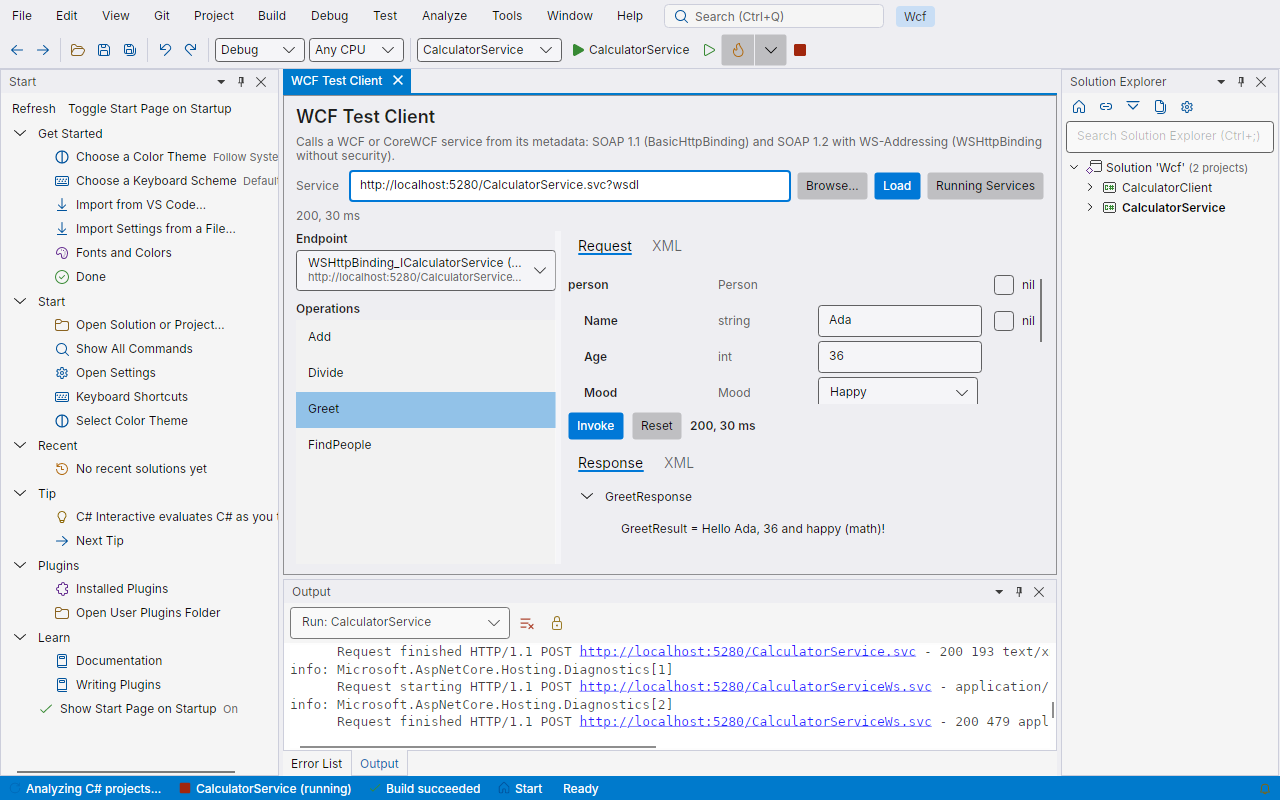
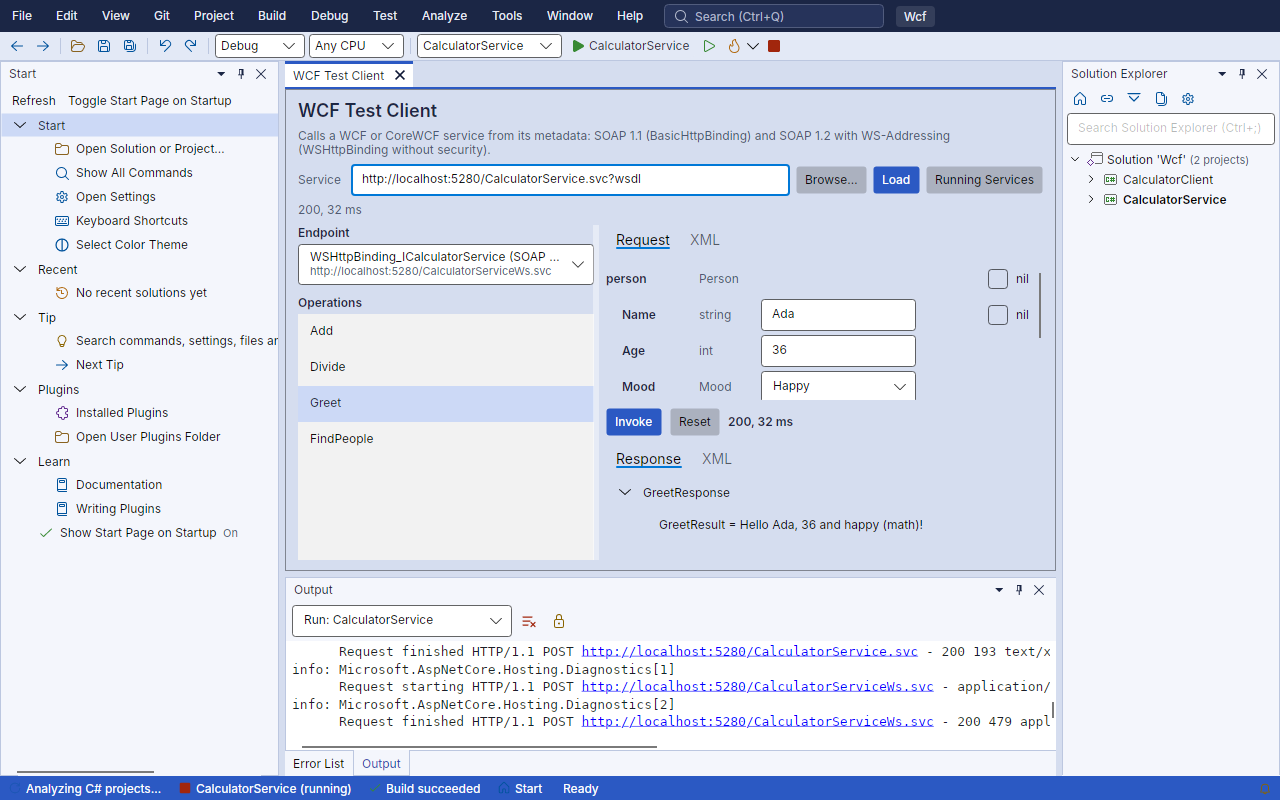
M34g checkpoint: findings, roadmap, UI guide, changelog and the WCF screenshot
The checkpoint's findings table (27 issues in the views M40-M47 added, each fixed
in the view), the tests and the gallery's new pictures, and the results on Linux.
The UI guide gains the text tokens for errors and warnings, the selection rules,
the minimum input width, the Tab walk and the gallery's new surfaces. The
website's WCF Test Client screenshot is the smoke test's again, with the form's
new layout.

diff --git a/docs/checkpoints/m34g.md b/docs/checkpoints/m34g.md
@@ -1,0 +1,89 @@
+# M34g checkpoint: the polish pass over the Windows desktop UI
+
+Date: 2026-10-17. M34's pass over the UI added since M34f: M40–M44 (the Windows desktop phase, D31) and, as the roadmap's status says, M45's theme families, M46's first-run setup and M47's Code Search. It applies M34d–f's checklist ([`docs/ui-guidelines.md`](../ui-guidelines.md)) to every view they added, in all sixteen themes, and puts the views in the gallery. No new ADR: the choices follow ADR 0019 (look and feel) and [ADR 0077](../adr/0077-theme-families.md) (the families' tokens).
+
+## What was walked
+
+| Milestone | Views |
+|---|---|
+| M40 | The XAML Previewer's WPF states (Windows only, the loader's error), the Live Visual Tree and the Live Property Explorer |
+| M41 | The Windows Forms designer document, the Toolbox, the Properties window over the designer's selection (properties and events) |
+| M42 | The WCF Test Client, the Service References document's WCF page |
+| M43 | Nothing: M43 is scheduled after M44 and hasn't been built; its views get the checklist in its own definition of done |
+| M44 | No view of its own: "Windows Machine" in the device picker (a quick pick) and Check Environment's Developer Mode and Windows App SDK rows are existing surfaces (M34f walked Check Environment) |
+| M45 | Options' color theme cards and mode, the theme picture |
+| M46 | The setup window's four steps (with a missing SDK's plan shown) |
+| M47 | Code Search floating and docked: empty, nothing found, incomplete, results with the preview, Feature Search |
+
+Each in its states (empty, loading, error, disabled where a view has it, with data), at its minimum size (280 px for tool windows, 640 px for documents, 420 px for Code Search's floating window, the setup window's 760 × 560), in Classic's four themes and the families' twelve. The Windows-only views are checked through their view models and views with fakes, as M34f did: the designer document, the Toolbox and the Properties window through `FakeWinFormsDesignerHost` (M41a's) over the real build and C# hosts.
+
+## Findings
+
+| View | Issue | Fix |
+|---|---|---|
+| Every view with error or warning text (36 views, the WCF Test Client and the Live Property Explorer among them) | Messages drew in `Shell.Error` and `Shell.Warning`, graphics tokens held to 3:1: error text was 4.29:1 in Classic Dark, 4.35:1 in Classic Light and Blue, 4.39:1 in Harbor Light and 4.43:1 in Graphite Light | `Shell.Error.Foreground` and `Shell.Warning.Foreground` in all sixteen themes (the palette's dark red and amber on light themes, its light red on dark ones, the High contrast colors there), with contrast pairs at 4.5:1 (7:1 in the families' High contrast); the views use them, and VS Code themes' `errorForeground` sets it too |
+| Watch, Locals, QuickWatch, data tips, HTTP responses, the WCF Test Client's fault | `Classes.error` on text did nothing: no style had it | `TextBlock.error` and `TextBlock.warning` in `ShellStyles.axaml` |
+| Code Search (M47), and every list | A selected row's secondary text stayed muted on the selection: 3.10:1 in Classic Dark, 3.37:1 in Classic Light, 3.95:1 in Blue, 4.37:1 in Harbor Dark, 1.03–1.24:1 on the High contrast families' accent | A selected list row's `TextBlock.muted` takes `Shell.Selection.Foreground` |
+| Live Visual Tree (M40b), Options' categories, every tree | A selected tree row's header kept the window's white on a High contrast family's accent (1.41–1.81:1) | A selected tree row's header takes `TreeViewItemForegroundSelected`; the Live Visual Tree's muted template parts take it when selected |
+| Properties window (M41a), every checked toggle button | A checked toggle drew white on Fluent's `#0078D7`: 4.50:1, below the families' High contrast 7:1 (and only just AA in Classic) | `ToggleButtonBackgroundChecked` and `ToggleButtonForegroundChecked` per theme: each family's accent with its text, Classic's accent with `Shell.AccentForeground`; a contrast pair checks them |
+| Properties window (M41a) | Categorized, Alphabetical, Properties and Events in a row ran off the tool window's 280 px; the separator was a one-off border | A `ToolbarPanel` (the overflow menu takes what doesn't fit), `Border.toolbarSeparator` |
+| Properties window (M41a) | The title ("button1 System.Windows.Forms.Button") trimmed without a tooltip, and rows without a description had none on their trimmed names | Tooltips: the title, and the name with its description |
+| Windows Forms designer (M41a) | The grab handles were white and the rubber band DodgerBlue in every theme | The handles filled with `Shell.Panel` and outlined in the accent, the band the accent at 12 % |
+| Windows Forms designer (M41a) | Before the first frame and when the designer couldn't start, the reason was one trimmed line in the toolbar, without a tooltip | The status where the form will be, wrapped (`TextBlock.emptyState`, a live region); the toolbar's status has a tooltip |
+| Windows Forms designer (M41a) | The list of statements the designer couldn't run was cut at 120 px | It scrolls, in the error color, with a name |
+| Windows Forms designer (M41a) | View Code's icon (`code`) had no palette color: `IconColorTests` sees only the XAML's kinds | Blue in `CommandIcons.s_kindColors`; `PolishTests` now checks the icons the views show |
+| Toolbox (M41a) | A search that matched nothing left the Toolbox blank | "No Toolbox items match '…'. Clear the search box to see them all." |
+| Live Property Explorer (M40b) | Fixed 180 and 110 px columns left the value nothing at 280 px; Source didn't trim; a name's tooltip had only its type | Proportional columns (`2*,3*,1.4*`), headers and Source trim with tooltips, the name's tooltip is "Name: Type" |
+| Live Visual Tree, Live Property Explorer, XAML Previewer (M40b) | Their messages (no app, no window, a WPF app off Windows, nothing previewed, select an element) weren't in the catalogue | Localized (`msg.liveTree.*`, `msg.xamlPreview.nothing`) |
+| XAML Previewer | The error box's corner was a literal 2 px | `Shell.CornerRadius` |
+| WCF Test Client (M42) | The form's fixed columns (`150,100,*,Auto,56`) beside a fixed 260 px list left the value boxes 38 px and the choices 32 px at 640 px; rows didn't line up | The list and the form share the width (`2*`, at least 160 px, and `3*`, at least 280 px); the form's columns are proportional and its rows share the fixed ones; room for the scroll bar |
+| WCF Test Client (M42) | A fault's summary was cut off at 640 px (242 px in 234) | It trims, with a tooltip and a live region, in the error color |
+| WCF Test Client (M42) | The endpoint drop-down's name and address trimmed without tooltips | A tooltip with both |
+| WCF Test Client (M42) | Before an operation, the request area was blank | "Load a service's metadata above…, then choose an operation: its request form shows here." |
+| WCF Test Client (M42) | Its status, errors, title and file picker were English only | Localized (`msg.wcf.*`) |
+| Service References, WCF page (M42) | dotnet-svcutil's message pushed Install off a 640 px page (0 px of it showed) | The message wraps beside Install |
+| Service References, WCF page (M42) | The add form's fields and the WCF options' fields didn't line up (two grids, two label widths) | The forms' label columns are one shared size |
+| Service References, WCF page (M42) | svcutil's state, the WCF errors and a reference's details were English only | Localized (`msg.serviceReferences.*`) |
+| Options' color theme cards (M45) | The cards' lines and the modes were English only (the setup's, for the same families, were translated) | Localized (`msg.colorTheme.*`); the setting's own names (`VariantTitle`, used by color customizations) stay English |
+| Options' color theme cards (M45) | A card's line was only a tooltip for screen readers | `AutomationProperties.HelpText`, as the setup's cards |
+| Setup window (M46) | Literal font sizes (12 and 14 px) | `Shell.FontSize.Body` and `.Heading`; the page title's 22 px is the design's ([Setup.dc.html](../design/shell-themes/Setup.dc.html)) and stays |
+| Code Search (M47) | With nothing to list, only the small status line said so, and "No results" gave no next step | The message where the results would be (`TextBlock.emptyState`), and "Try fewer characters, all kinds (Alt+A), or a wider scope." |
+
+Walked and found right: the setup window's four steps at 760 × 560 in every theme (names, keys, contrast); Code Search's chips, tabs, preview and docked view at 280 px; the theme picture (drawn from its variant's tokens, decorative inside a named card); every icon kind the new views show, once `code` had its color.
+
+## Tests
+
+- **`PolishWindowsDesktopTests`** (part of `PolishTests`, 3 tests, headless):
+  - **The new views in every state:** the XAML Previewer (empty, WPF off Windows, an error), the Live Visual Tree (empty, data, a template part selected), the Live Property Explorer (empty, data with an error), the Toolbox (no designer, data, an item armed, no matches), the WCF Test Client (empty, a missing address, loading against a gated mock, a WSDL's form, a response, a fault), the setup window's four steps, Options' color theme cards, and Code Search floating (empty, nothing found, Feature Search).
+  - **With a solution** (samples/LanguageFeatures, the real build and C# hosts): Code Search incomplete while it loads, with results and the preview, docked at 280 px; the Service References document's WCF page and its error.
+  - **The Windows Forms designer** (samples/WindowsDesktop's WinFormsApp, the fake designer host on any OS): the designer document with a selection, the Toolbox and the Properties window (properties and events) with the designer's data, and a designer that can't start, whose reason shows where the form would be.
+  - Each surface is hosted at its minimum size in all sixteen themes and walked with M34d–f's checks (cut-off text, accessible names) and three new ones: **contrast as rendered** (every text against the background under it, blended, 4.5:1, 3:1 large, 7:1 in the families' High contrast), **icons in the palette** (a kind a view shows without a color of its own), and **squeezed inputs** (a text box or combo box under 48 px). The squeezed check was proven against the WCF form's old columns (a 32 px combo box).
+- **`UxPassTests.The_new_views_reach_every_control_with_Tab_in_reading_order`**: Tab pressed through the WCF Test Client's form, the Toolbox, the Live Property Explorer, the setup's settings step and Code Search's Feature Search; every visible, enabled control is reached.
+- **Contrast pairs** (`TestData/contrast-pairs.txt`, 111 → 123): the error and warning text on the panel, the window, popups and the editor; `Shell.Foreground` on `Shell.Editor.Background` (the setup's cards and sections); the accent's outlines on popups and the editor; checked toggle buttons.
+
+## The gallery
+
+- **`shell.galleryEmpty`** adds Code Search (`code-search-empty`, `-no-results`, `-feature-search`), the WCF Test Client (`wcf-test-client-empty`, `-error`, and `-form` from samples/Wcf's WSDL file) and the setup's steps (`setup-appearance`, `-keyboard`, `-settings`, `-tools`).
+- **`shell.gallery`** adds Code Search's results with the preview (`code-search-data`), Options' color theme cards (`options-color-theme-data`) and the WCF page of Service References (`service-references-wcf-data`).
+- **`wcf.testClient`** adds the test client with the running service's response and a fault (`wcf-test-client-data`, `-fault`).
+- **On Windows**, `winforms.designer` adds the designer, the Toolbox and the Properties window with their data (`winforms-designer-data`, `toolbox-data`, `properties-data`), and `wpf.preview` the XAML Previewer's WPF frame (`xaml-preview-wpf`).
+- The tool windows among the new views (the Toolbox, the Live Visual Tree and Property Explorer, the XAML Previewer, Code Search docked) were already in the sweep of every registered tool window.
+
+## Results
+
+**Linux** (this container, Ubuntu 24.04, the .NET 11 RC2 SDK; Windows and macOS are CI's):
+- `dotnet build Codalus.slnx`: 0 warnings, 0 errors.
+- `Codalus.Shell.Tests`, the whole project under Xvfb: 392 tests, 380 passed, 12 skipped (Windows, browser, WSL and container tests without their prerequisites), none failed. Among them `PolishTests` 17/17 (the three new ones; the contrast pairs in sixteen themes; the tool window walks), `UxPassTests` with the Tab walk, `ThemeFamilyTests`, `IconColorTests`, `FirstRunSetupTests`, `CodeSearchTests`, `WcfShellTests`, `WinFormsDesignerShellTests` and `LocalizationCatalogTests`.
+- `LocalizationCatalogTests` with `CODALUS_UPDATE_LOCALIZATION=1`: 40 new strings in `en.json` (the view models' messages and one view string); `localization-literals.txt` unchanged.
+- The smoke test, the Debug build under Xvfb: `CODALUS_SMOKE_ONLY=shell.window,shell.galleryEmpty,projects.open,testing.discover,testing.run,shell.gallery` passed (`shell.galleryEmpty` in 49 s, `shell.gallery` in 93 s, 589 pictures), and `shell.window,shell.galleryEmpty,wcf.testClient` passed (the response and the fault in the gallery). The pictures were reviewed; the WCF form's misaligned rows and the WCF page's two label widths were found there and fixed. `smoke-test-wcf-test-client.png` is the website's `wcf-test-client.png` again (the form's new layout).
+- `tests/Codalus.Website.Tests` 12/12; the site's export: 58 files, no broken links.
+- The Windows-only gallery pictures (`winforms.designer`, `wpf.preview`) and the full smoke test weren't run here; Native AOT wasn't published (no change to what it compiles beyond views and view models).
+
+**Needs validating on Windows and macOS** (CI, or the Mac session): the Windows smoke run's new gallery pictures (the designer, the Toolbox, the Properties window, the WPF preview), the new tests with each platform's fonts, and the gallery's review on three OSes (D25).
+
+## Open
+
+- **The maintainer's part (D25):** the gallery on three OSes and the display scales from 100 % to 200 % stay M34's exit criteria. CI's smoke job uploads the gallery on each OS; the Windows-only pictures (the designer, the WPF preview) come only from there.
+- **M43's views** (the .NET Framework project UI, Convert to SDK-style, the desktop-CLR debugger's pieces) aren't built; the checklist is in M43's definition of done. `TODO(issue)`
+- **The off-Windows WPF states in the gallery:** the XAML Previewer's "Windows only" message and the Live Visual Tree's are covered by the tests, not photographed (they need the WindowsDesktop solution restored in the smoke test). `TODO(issue)`
+- **The setup window's page title** keeps the design's 22 px, a third heading size beside the guide's two.

diff --git a/docs/roadmap.md b/docs/roadmap.md
@@ -52,7 +52,7 @@ This is the plan for everything after the MVP, M0–M7. The MVP's milestones cam
 | M31 | Automated release cycle and installers | done (M31 and M31b at checkpoint). M31 ([m31](checkpoints/m31.md), ADR 0028): `develop`/`master`, `VERSION` and `codalus-release`, Velopack installers on every platform, `.deb`/`.rpm`, signed apt and dnf repositories, the release workflows (since 2026-10-14 the one `pipeline.yml`, with `pages.yml`); M31b ([m31b](checkpoints/m31b.md)): the first published releases, pulled forward by the maintainer on 2026-10-13: nightlies from `develop`, 0.1.0 from `master`, Linux ARM64 packages, the apt and dnf repositories on Pages; unsigned until certificates (D19) |
 | M32 | Self-update | done (at checkpoint, [m32](checkpoints/m32.md), ADR 0029): Velopack updates from signed feeds (ECDSA P-256), stable and nightly channels, Restart to update, What's New, notifications for the other installs |
 | M33 | Older .NET: .NET Core 2.0 to .NET 10 | done (at checkpoint, [m33](checkpoints/m33.md)): every target framework from .NET Core 2.0 to .NET 10 with the current SDK, older SDKs in `global.json` down to 2.1.200, the support table in the user guide, ADR 0030; validated on Windows, WSL and the Mac |
-| M34 | UI polish | M34a at checkpoint ([m34a](checkpoints/m34a.md)), pulled forward by the maintainer on 2026-10-12: Fluent UI System Icons compiled at build time (D24) with command-family colors, every menu a tree like a classic IDE's, output windows that follow new output, the minimap docked at the editor's edge, completion keys per OS (the editor's key bindings now match a focused editor), then Material Icon Theme's file, folder and project icons, a flat navigation bar and themed outlining markers; M34b at checkpoint ([m34b](checkpoints/m34b.md)), pulled forward the same day: batched project loading in the language host, no false errors while loading, a parallel background pass, parallel design-time builds and their persisted cache, restore on open only when needed; M34d at checkpoint ([m34d](checkpoints/m34d.md)), 2026-10-13: spacing, size and type tokens, document tabs and captions in every state (selected without the focus, pinned, preview on the right, colored by project), toolbars that overflow instead of wrapping, High Contrast's black menus, the gallery in the smoke test, clipped-text and WCAG AA contrast tests, the UI guide (needs checking on the Mac: no result recorded); M34e at checkpoint ([m34e](checkpoints/m34e.md)), 2026-10-13: document tabs that fit their group, Window → Open Documents…, our own tab context menu, toolbar overflow in the remaining windows, the Error List's project names; M34c at checkpoint ([m34c](checkpoints/m34c.md)), 2026-10-13: the language host keeps diagnostics and reference assemblies between sessions, open documents compile against unchanged projects' assemblies, and CS4014 the build wouldn't report is left out (ADR 0049; needs checking on the Mac: no result recorded); M34f, the final pass, at its checkpoint ([m34f](checkpoints/m34f.md)), 2026-10-15: the checklist on the documents that work as dialogs and the in-window dialog's forms at their minimum sizes, accessible names in every tool window, document and dialog (two layouts fixed), and the dialogs in the gallery; M34 closes when the maintainer approves the gallery on three OSes and the display scales are checked (D25) |
+| M34 | UI polish | M34a at checkpoint ([m34a](checkpoints/m34a.md)), pulled forward by the maintainer on 2026-10-12: Fluent UI System Icons compiled at build time (D24) with command-family colors, every menu a tree like a classic IDE's, output windows that follow new output, the minimap docked at the editor's edge, completion keys per OS (the editor's key bindings now match a focused editor), then Material Icon Theme's file, folder and project icons, a flat navigation bar and themed outlining markers; M34b at checkpoint ([m34b](checkpoints/m34b.md)), pulled forward the same day: batched project loading in the language host, no false errors while loading, a parallel background pass, parallel design-time builds and their persisted cache, restore on open only when needed; M34d at checkpoint ([m34d](checkpoints/m34d.md)), 2026-10-13: spacing, size and type tokens, document tabs and captions in every state (selected without the focus, pinned, preview on the right, colored by project), toolbars that overflow instead of wrapping, High Contrast's black menus, the gallery in the smoke test, clipped-text and WCAG AA contrast tests, the UI guide (needs checking on the Mac: no result recorded); M34e at checkpoint ([m34e](checkpoints/m34e.md)), 2026-10-13: document tabs that fit their group, Window → Open Documents…, our own tab context menu, toolbar overflow in the remaining windows, the Error List's project names; M34c at checkpoint ([m34c](checkpoints/m34c.md)), 2026-10-13: the language host keeps diagnostics and reference assemblies between sessions, open documents compile against unchanged projects' assemblies, and CS4014 the build wouldn't report is left out (ADR 0049; needs checking on the Mac: no result recorded); M34f, the final pass, at its checkpoint ([m34f](checkpoints/m34f.md)), 2026-10-15: the checklist on the documents that work as dialogs and the in-window dialog's forms at their minimum sizes, accessible names in every tool window, document and dialog (two layouts fixed), and the dialogs in the gallery; M34g at checkpoint ([m34g](checkpoints/m34g.md)), 2026-10-17: the checklist on M40–M47's views in every theme (27 findings fixed, readable error text and selections in every theme among them), contrast as rendered, palette icons, squeezed inputs and Tab order checked, the new views in the gallery; M34 closes when the maintainer approves the gallery on three OSes and the display scales are checked (D25) |
 | M39 | Rename to Codalus IDE | done (no checkpoint of its own; ADR 0056 is the record; the name chosen 2026-10-13; validated on Windows, WSL, the Mac and CI; the repository renamed to `stavroskasidis/codalus-ide`): the clean rename of everything from Daedalus Studio (code, CLI, hosts, protocols, plugins, data folders, installers, repository, site, docs) with `eng/rename.py`, with no compatibility (no users yet); the new mark (violet and ember wings). Reserving the NuGet prefix (`docs/release/nuget-prefix-reservation.md`) and the AUR package (the pipeline's `aur` job, skipped until the `AUR_SSH_PRIVATE_KEY` secret exists) wait for the maintainer |
 | M37 | Environment setup | done (at checkpoint, [m37](checkpoints/m37.md)): a missing or mismatched .NET SDK (a solution's `global.json`), git, Git LFS, Docker, Podman and WSL found, Help → Check Environment, installs with the user's consent (winget, `dotnet-install` into `~/.dotnet`, `xcode-select`, the distribution's packages in the terminal); MAUI's workloads come with M20 |
 | M38 | Start window | done (at checkpoint, [m38](checkpoints/m38.md)): "What would you like to do?" at startup, with recent solutions, projects and folders (search, pinned, grouped by date, missing entries) and Create, Open, Open Folder and Clone; File → Start Window; On Startup chooses it, an empty window or the last solution |
@@ -1939,7 +1939,7 @@ Together about 10–14 sub-milestones, plus the Windows target (below).
 
 **Scope.** M34d–f's checklist (`docs/ui-guidelines.md`) on every view added by M40–M44: tokens, states, overflow, minimum sizes, accessible names, contrast, icons in the palette, translations; the new views in the gallery and the smoke test; the gallery refreshed on three OSes for the maintainer.
 
-**Status.** Scheduled, after M47, so the pass also covers the theme families, the first-run setup and Code Search.
+**Status.** At checkpoint ([m34g](checkpoints/m34g.md)), 2026-10-17, after M47, so the pass also covered the theme families, the first-run setup and Code Search. M43 isn't built yet, so its views weren't walked (its definition of done has the checklist). The views of M40–M42 and M44–M47 in their states, at their minimum sizes, in all sixteen themes: 27 findings fixed in the views (among them error and warning text below AA in five themes, muted text on selected rows, tree selections and checked toggles in the families' High contrast, the WCF form's and the Live Property Explorer's squeezed columns, the Windows Forms designer's hard-coded adorner colors and its error state, and untranslated messages), with new checks in `PolishTests` (contrast as rendered, icons in the palette, squeezed inputs) and a Tab walk in `UxPassTests`. The gallery shows the new views; the Windows-only ones come from the Windows smoke run on CI. M34 still closes with the maintainer's review of the gallery on three OSes and the display scales (D25). Validated on Linux.
 
 ### M39 — Rename to Codalus IDE
 
@@ -2985,3 +2985,4 @@ These are the maintainer decisions this plan depends on. Update the status colum
 - 2026-10-17: M45 at checkpoint ([m45](checkpoints/m45.md), [ADR 0077](adr/0077-theme-families.md)), taken up while M43 is in progress. The four theme families, each Light, Dark and High contrast, are Avalonia theme variants with every color of the design, inheriting Classic's variant of their kind so Fluent's controls follow; their shapes are tokens in the same dictionaries, applied by `ShellStyles.axaml`, so no view changed. `workbench.colorTheme` takes `<family>` or `<family>.<variant>`; Blue, Light, Dark, High Contrast and Follow System read as Classic and the file isn't rewritten; new installs get Harbor following the system. Options shows the families as cards with pictures and a mode, Color Theme lists every variant with a preview, and `themeFamily` joins the context keys. Twelve new tokens beyond the design's six (the status bar's states, the title bar's hover and chip, the search box's text, the Start button). Left for later: the design's structural differences (Daylight's rail and toolbar groups, Ember's title-bar run controls, Graphite's centered search box, tabs in tool window headers) and the gallery in all sixteen themes on CI (`CODALUS_GALLERY_THEMES=all` takes it locally).
 - 2026-10-17: M46 at checkpoint ([m46](checkpoints/m46.md)), on M45's branch. The first-run setup is a window of its own (`SetupWindow`, `SetupViewModel`, `ShellHost.FirstRun.cs`) that opens instead of the start window the first time a user data folder starts, and goes on to it. Its state is the setting `workbench.setupCompleted`, so there's no new store and no ADR. Decided here: a user data folder that already has a setting or a saved window counts as set up (an upgrade isn't asked, and nothing is written for it), and a synced profile is one whose settings name a sync target; the test fixtures skip the setup (`ShellOptions.SkipSetup`) and only its own tests start on an empty folder. The appearance step previews through `ThemeService.Preview`, so the setup window and the IDE behind it repaint; leaving a step saves it, Skip setup and closing keep what's saved. The Start page's Get Started list is gone: Help → Get Started opens the setup, which closes M38's Get Started gap; `welcome.onboarded` stays registered, unused. Validated on Linux only.
 - 2026-10-17: M47 at checkpoint ([m47](checkpoints/m47.md), [ADR 0078](adr/0078-code-search-and-its-persistent-index.md)), on top of M46: Code Search replaces Go To All's list and the search box's, in one window with Code Search and Feature Search tabs, chips and prefixes, two-line results, an editable preview on the document's own model, the scope, an incomplete-results notice and docking. Go To All's persistent index, deferred since M12, is built: Roslyn's persistent storage is internal to its workspaces, so the C# host indexes declarations from syntax (`codalus/symbolIndex`) and the shell keeps them next to the solution, where the next session reads them before the host loads; it leaves the deferred-work table. Validated on Linux.
+- 2026-10-17: M34g at checkpoint ([m34g](checkpoints/m34g.md)), on top of M47: M34d–f's checklist on the views M40–M42 and M44–M47 added (M43 isn't built), each in its states at its minimum size in all sixteen themes, the Windows-only ones through fakes. 27 findings fixed in the views. Decided here: error and warning text gets its own tokens (`Shell.Error.Foreground`, `Shell.Warning.Foreground`) and classes, since `Shell.Error` and `Shell.Warning` are graphics held to 3:1, and every view that drew text in them moved over; a selected row's muted text and a selected tree header take the selection's text everywhere; checked toggle buttons take each theme's accent. `PolishTests` renders the new views and checks text contrast against what is under it, icons against the palette and inputs against a 48 px minimum; `UxPassTests` walks them with Tab. The gallery photographs the new views (Code Search, the WCF Test Client, the setup, the color theme cards, the WCF references page; on Windows the designer, the Toolbox, Properties and the WPF preview). Validated on Linux.

diff --git a/docs/ui-guidelines.md b/docs/ui-guidelines.md
@@ -24,6 +24,7 @@ Review a surface against each line, in every theme family (Harbor, Graphite, Day
   - Nothing is cut off without an ellipsis: single-line text in a constrained space has `TextTrimming="CharacterEllipsis"` and a tooltip with the full text (on the text or its row).
   - Messages wrap (`TextWrapping="Wrap"`).
   - `PolishTests` walks every tool window at 280 px (`Shell.Size.ToolWindowMinWidth`), the documents that work as dialogs at 640 px and the in-window dialog's forms at 440 px. It fails on text cut off without an ellipsis or a tooltip.
+  - Inputs keep room to type: a text box or combo box squeezed under 48 px by the columns around it fails `PolishTests` (M34g). Rows of a form that show different controls share their fixed columns (`Grid.IsSharedSizeScope`, `SharedSizeGroup`), so the values line up.
   - Columns: give the main column `*` and the others proportional (`2*,1.5*`) or modest fixed widths. Fixed columns that add up to most of 640 px squeeze the main one to nothing (the Keyboard Shortcuts header and Add New Item's list did, until M34's final pass).
 - **States**
   - Every surface has an empty state, a loading state and an error state, each with a next step: what to do (`Open Solution…`, `Press F9 in an editor to add one`), not only what is missing.
@@ -37,12 +38,15 @@ Review a surface against each line, in every theme family (Harbor, Graphite, Day
   - Colors come from tokens only (`{DynamicResource Shell.*}`), never literals, so every theme switches live: the four families' twelve variants and Classic's Blue, Light, Dark and High Contrast.
   - Shapes that differ per family come from tokens too (`Shell.Gutter`, `Shell.Panel.CornerRadius.*`, below), applied by `ShellStyles.axaml`: a view never checks which family is in use.
   - Text drawn on a selection uses `Shell.Selection.Foreground`, on an accent fill `Shell.AccentForeground`: in a family's High contrast variant both fills are the accent, with black text.
-  - Text meets WCAG AA (4.5:1) on what it is drawn on, and 7:1 in the families' High contrast variants; icons, focus rings and other graphics 3:1. `tests/Codalus.Shell.Tests/TestData/contrast-pairs.txt` lists every pair; `PolishTests` checks it in all sixteen themes.
+  - Text meets WCAG AA (4.5:1) on what it is drawn on, and 7:1 in the families' High contrast variants; icons, focus rings and other graphics 3:1. `tests/Codalus.Shell.Tests/TestData/contrast-pairs.txt` lists every pair; `PolishTests` checks it in all sixteen themes, and since M34g also renders the views and checks each text against the background under it.
+  - Error and warning text uses `TextBlock.error` and `TextBlock.warning` (`Shell.Error.Foreground`, `Shell.Warning.Foreground`), never `Shell.Error` or `Shell.Warning`: those are graphics tokens, held to 3:1 only.
+  - Secondary text on a selected row needs nothing: `ShellStyles.axaml` gives a selected list row's `TextBlock.muted` the selection's text, and a selected tree row's header the tree's selected text.
   - In High Contrast, color never carries meaning alone: icons are monochrome (shape carries it), and states also have a shape or a word.
 - **Operating systems and scales:** check Windows, Linux and macOS (Cmd shortcuts, the global menu) at 100 % to 200 %.
 - **Accessibility:** every control has a name (`AutomationProperties.Name`), live regions announce status (`AutomationProperties.LiveSetting`), and rows have an accessible name that reads like a sentence.
   - A tooltip isn't a name: an icon-only button needs `AutomationProperties.Name` too.
   - `PolishTests` fails on a visible button, toggle, combo box, text box, slider, list or tree without a name, its text, or a placeholder, in every tool window, document and dialog form.
+  - `UxPassTests` presses Tab through the newer views (M34g) and fails on a control it never reaches.
 
 ## Tokens
 
@@ -63,6 +67,7 @@ All tokens are in `src/Codalus.Shell/Theming/Tokens.axaml`. Colors and the famil
 | `Shell.Overlay`, `Shell.Overlay.Border` | Popups, the command palette, toasts |
 | `Shell.Link`, `Shell.Match` | Links; matched characters in pickers |
 | `Shell.Info`, `Shell.Warning`, `Shell.Error`, `Shell.Modified` | States (icons and borders) |
+| `Shell.Error.Foreground`, `Shell.Warning.Foreground` | Error and warning text (4.5:1 on every surface, 7:1 in the families' High contrast; M34g), through `TextBlock.error` and `.warning` |
 | `Shell.Diff.Added`, `Shell.Diff.Removed` | Diffs, and passed tests |
 | `Shell.Toolbar`, `Shell.Toolbar.Border`, `Shell.TitleBar*`, `Shell.Search*` | The title row and the standard toolbar: `Shell.TitleBar.Hover` for the menu bar's items, `.Chip` behind the solution's name, `Shell.Search.Foreground` for the search box's text |
 | `Shell.Toolbar.Start`, `.Foreground`, `.Icon` | The Start button (filled with the accent in Daylight) |
@@ -108,7 +113,7 @@ The design's layout differences between the families, as values each theme sets 
 
 ### Classes
 
-`ShellStyles.axaml` applies the tokens through classes, which views use instead of setting the values themselves: `Button.toolbar`, `ToggleButton.toolbar`, `ComboBox.toolbar`, `controls:ToolbarPanel`, `Border.toolbarSeparator`, `TextBlock.muted`, `TextBlock.small`, `TextBlock.heading`, `TextBlock.subheading`, `TextBlock.emptyState`, `Button.link`, `Border.overlay`, and the icon classes below.
+`ShellStyles.axaml` applies the tokens through classes, which views use instead of setting the values themselves: `Button.toolbar`, `ToggleButton.toolbar`, `ComboBox.toolbar`, `controls:ToolbarPanel`, `Border.toolbarSeparator`, `TextBlock.muted`, `TextBlock.small`, `TextBlock.heading`, `TextBlock.subheading`, `TextBlock.emptyState`, `TextBlock.error`, `TextBlock.warning`, `Button.link`, `Border.overlay`, and the icon classes below.
 
 ## Icons
 
@@ -121,7 +126,7 @@ open folder tan, build purple, Git orange). Every icon kind has its color in `Co
 windows, navigation and general actions, green for new, add and run, red for close, delete and errors, yellow for
 warnings, locks and databases, orange for Git and history, purple for build and extensions, tan for folders); an
 `Icon` that nothing else colors takes its kind's color, so a new kind must be added there (`IconColorTests` fails
-otherwise). File, folder and project icons take the palette color nearest each of their fills by hue, folders tan;
+otherwise, and `PolishTests` for a kind a view binds at run time). File, folder and project icons take the palette color nearest each of their fills by hue, folders tan;
 gray fills (outlines, pages) stay gray, as Visual Studio's do. Only chrome glyphs (chevrons, carets) stay in the text
 color, and High Contrast draws every icon in the foreground.
 
@@ -137,4 +142,4 @@ color, and High Contrast draws every icon in the foreground.
 
 ## The gallery
 
-`eng/smoke-test.sh` runs the real app through the smoke test, whose `shell.galleryEmpty` and `shell.gallery` steps photograph every registered tool window, the main documents (Options, Keyboard Shortcuts, Project Properties, NuGet, Configuration Manager, Add New Item, the Template Manager, Check Environment), the in-window dialog's forms (a preview of changes, a checklist, a name with an error) and the window's chrome in each theme, empty, with data and in an error state. The pictures and an index (`index.md`) are in `gallery/` next to the report (`artifacts/smoke-test/gallery` by default; CI uploads them with the smoke test's artifact). Review a milestone's surfaces there against the checklist; the maintainer approves the gallery at M34's checkpoints (D25).
+`eng/smoke-test.sh` runs the real app through the smoke test, whose `shell.galleryEmpty` and `shell.gallery` steps photograph every registered tool window, the main documents (Options, Keyboard Shortcuts, Project Properties, NuGet, Configuration Manager, Add New Item, the Template Manager, Check Environment), the in-window dialog's forms (a preview of changes, a checklist, a name with an error) and the window's chrome in each theme, empty, with data and in an error state. Since M34g they also photograph Code Search's floating window (empty, nothing found, Feature Search, results with the preview), the WCF Test Client (empty, a missing address, a WSDL file's form), the first-run setup's four steps, Options' color theme cards and the Service References document's WCF page; `wcf.testClient` adds the test client with a response and a fault, and on Windows `winforms.designer` adds the Windows Forms designer, the Toolbox and the Properties window, and `wpf.preview` the WPF preview. The pictures and an index (`index.md`) are in `gallery/` next to the report (`artifacts/smoke-test/gallery` by default; CI uploads them with the smoke test's artifact). Review a milestone's surfaces there against the checklist; the maintainer approves the gallery at M34's checkpoints (D25).

diff --git a/CHANGELOG.md b/CHANGELOG.md
@@ -15,6 +15,13 @@ In progress on `develop`; nightlies show these notes.
 - **MAUI on Windows and WinUI 3** (M44, on Windows, [user guide](docs/user-guide/windows-desktop.md#winui-3)): MAUI apps run on **Windows Machine** from the device picker, and WinUI 3 apps build, run, debug (netcoredbg) and use Hot Reload. Packaged (MSIX) apps are registered from their build and started by Windows, then followed or attached to; when Developer Mode is off, the IDE explains it and opens its Settings page. WinUI XAML edits on every OS: `x:Bind` paths checked against the page's class as errors, `x:Load` and `x:DefaultBindMode`, `ThemeResource` and resources through `App.xaml`'s merged dictionaries, and WinUI's compiler errors in their files; Add New Item has WinUI's window, page, user control and resource dictionary. Check Environment lists Developer Mode and the Windows App SDK runtime. On Linux and macOS, WinUI projects say they build and run only on Windows.
 - **Git Changes looks like a classic IDE's**: a branch picker with Fetch, Pull, Push and Sync, the outgoing and incoming counts, and Publish branch at the top; a commit button that commits the staged changes or all of them, and can also push or sync; collapsible Related Items, Merge Conflicts, Staged Changes, Changes and Stashes sections; files as a tree or a sortable list with a filter; stashes applied, popped or dropped in the window.
 - **A solution's state lives next to it**, like Visual Studio's `.vs`: `.codalus/state/<solution file name>/` keeps the open documents, breakpoints, Watch, startup projects, bookmarks and unloaded projects, and now also the configuration and platform, the Solution Explorer's expansion, the Error List's filters and the Test Explorer's grouping. The folder ignores itself in Git. Sessions, bookmarks and unloaded projects from earlier versions move there the first time you open the solution. A folder that can't be written keeps the state in your user data instead.
+- **A polish pass over the newer windows** (M34g): the WPF and Windows Forms tools, the WCF Test Client, the theme pickers, the first-run setup and Code Search, checked in every theme at their smallest sizes.
+  - Error and warning messages are readable in every theme: in Classic Light, Dark and Blue and in Harbor and Graphite Light, error text was paler than the WCAG minimum. Error values in Watch, Locals, QuickWatch and data tips are in the error color, as was always meant.
+  - In the High contrast families, the selected row of a tree (Options' categories, the Live Visual Tree) is readable, and so are checked toggle buttons. A selected row's second line (a Code Search result's location) takes the selection's color in every theme.
+  - The WCF Test Client's form keeps room for its values in a narrow document, its rows line up, and a fault's reason is no longer cut off; before you choose an operation, it says what to do.
+  - The Windows Forms designer says why it couldn't open a form where the form would be, and its selection handles follow the theme. The Toolbox says when a search matches nothing. The Properties window's buttons for a designer's selection fit a narrow window. The Live Property Explorer's values have room at the window's narrowest.
+  - Code Search says what to try when nothing matches.
+  - The messages of the Live Visual Tree, the XAML Previewer, the WCF Test Client and the color theme cards are translatable.
 - **Releases**: one pipeline builds, tests and releases every branch. Every push to `develop` that passes it is published as a nightly, and the website deploys only once a stable release has passed every check.
 - **Documentation**: the user guide, the website's Features page and the README cover everything up to 0.2.1.
 - **Fixed:** after dragging the bottom tool windows into a group of their own, tool windows such as the Plugin Gallery, Coverage Results and Code Metrics Results opened in a new group stacked above them. A tool window now opens as a tab where it was last closed, or in the group of its usual place.
